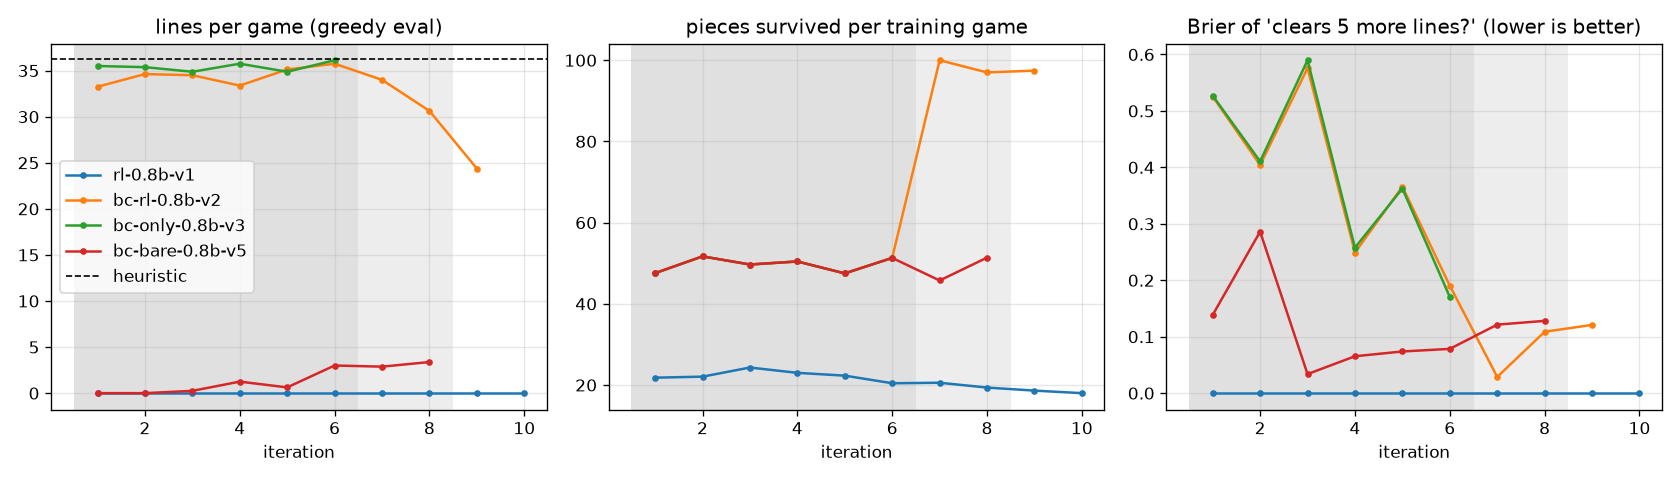
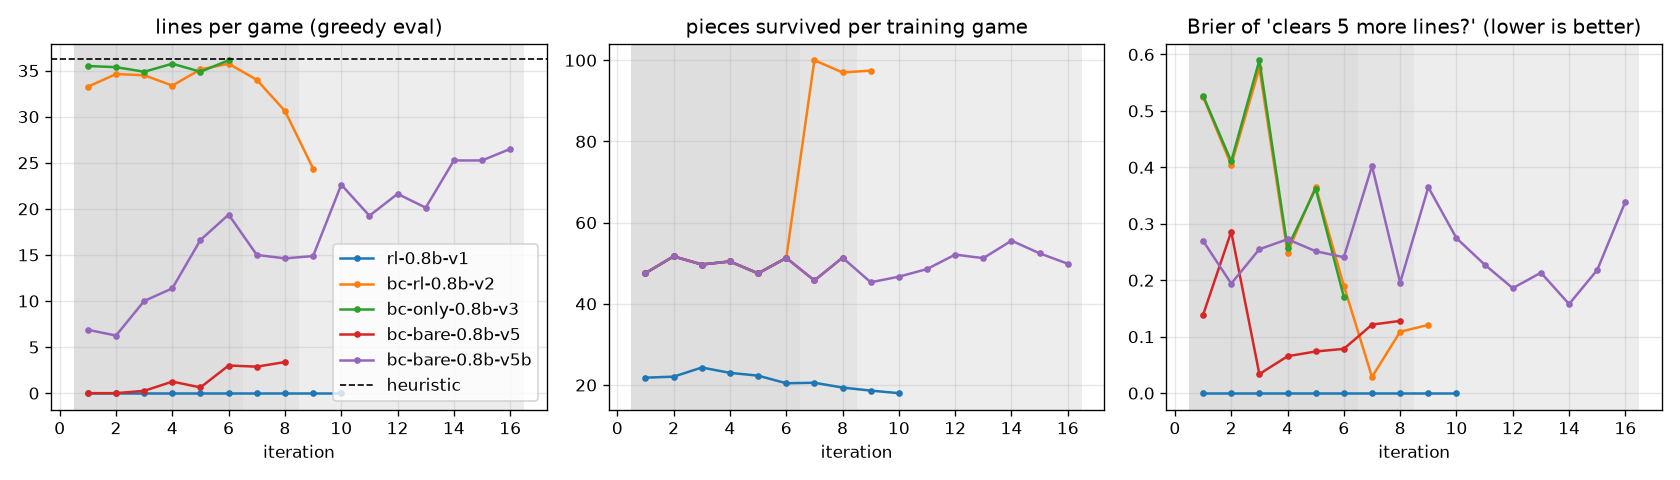
tetris: results table, notes 4-5, curves

diff --git a/tetris/README.md b/tetris/README.md
@@ -63,7 +63,23 @@ uv run --extra serve python -m tetris.viewer --agent model --run runs/tetris/rl-
 
 ## Results
 
-(filled in as runs finish)
+All runs: Kev-0.8B (`jaredpalmer/kev-0.8b`), one H100 each, 16 games per iteration. "Lines" are the greedy policy's mean
+over 8 fixed seeds (10000-10007) at the piece cap named; the heuristic and random player are scored on the same seeds.
+Metrics per iteration are in `runs/tetris/<run>/metrics.jsonl`; the curves are `docs/tetris-curves-100.png` and
+`docs/tetris-curves-200.png`.
+
+| run | recipe | encoding | lines @100 pieces | lines @200 | lines @500 (median) | cost |
+|---|---|---|---|---|---|---|
+| random | | | 0 (dies at ~22 pieces) | | | |
+| Kev-0.8B untrained | | rich | 0 (dies at ~17 pieces) | | | |
+| v1 | RL from the untrained model, 10 iterations | rich | 0 (dies at 13 pieces) | | | $1.0 |
+| v3 | 6 iterations of imitation (BC) | rich | 36.1 | 71.9 | 190 (mean 156; 2 of 8 games topped out) | $1.1 |
+| v2 | 6 BC then RL at lr 2e-5, 2 epochs | rich | 35.8 after BC, 24.4 three RL iterations later | | | $1.6 |
+| v4b | RL from v3 at lr 5e-6, clip 0.1, KL stop 0.02 | rich | | 73.4 → 75.9 after 2 iterations (running) | | ~$1/iteration... |
+| v5 + v5b | 24 iterations of imitation | bare | 26.5 | | | $2.0 |
+| heuristic | | | 36.3 | 73–80 | 195 | |
+
+A 10-wide board clears at most 0.4 lines per piece, so 40 @100, 80 @200 and 200 @500 are the ceilings.
 
 ## What happened and why (notes)
 
@@ -83,3 +99,17 @@ bonus) and start from a policy that sees the reward at all (`--bc_iters`).
 over games the heuristic played at softmax temperature 1, took the model from 0 to 33 lines per 100 pieces after one
 iteration (96 optimizer steps, 2.5 minutes). With `rich` options that is mostly reading: "clears 1" and "2 holes" are in
 the text. The interesting question is what RL does from there.
+
+**Note 4: RL on top of imitation needs a short leash (runs v2 and v4b).** At lr 2e-5 with two passes over each
+iteration's ~1,600 decisions (v2), the greedy policy lost a third of its lines in three iterations while the clip
+fraction sat at 0.3-0.5 and the entropy rose: the updates moved the policy further than the advantages justified. With
+lr 5e-6, clip 0.1, one pass, and an early stop once the running approximate KL between the old and new policy passes
+0.02 (v4b), the same start improved from 71.9 to 75.9 lines per 200 pieces in two iterations, against a ceiling of 80,
+and the noul question's Brier score fell from 0.17 to 0.02 because it now sees many games that do and do not clear 5
+more lines. The rules of thumb (clip fraction near 0.1-0.2, a KL target) exist because this failure is common.
+
+**Note 5: without the hints, imitation is 10x slower (runs v5, v5b).** With `bare` options ("T stem down, cols 3-5"),
+the model has to read the 20-row board to know what a placement does. The same 6 BC iterations that reached 36 lines
+with `rich` options reached 3.4; after 24 iterations it was at 26.5 lines per 100 pieces and still climbing. The
+pointer head can learn the geometry, but the text facts in `rich` were doing most of the work early on, which is
+exactly how Jev-style systems are meant to be used: the application computes what it can and asks the model to decide.
